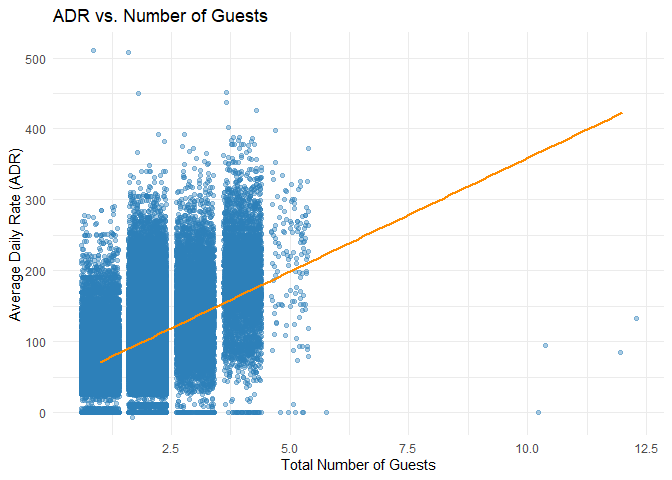
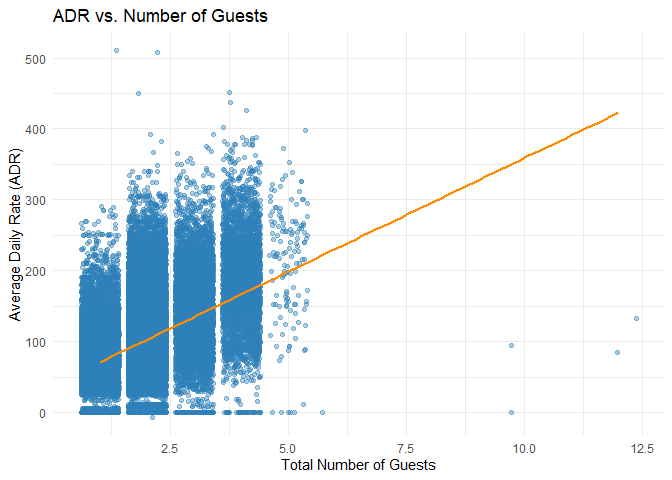
Started another question

diff --git a/README.md b/README.md
@@ -17,7 +17,7 @@ factors to improve their profit and customer satisfaction.
 - What makes guests more likely to cancel their bookings?  
 - How does the average daily rate affect bookings?  
 - How does number of guests affect hotel bookings?  
-- How does hotel type impact bookings?
+- What affects how many times bookings are changed?
 
 By investigating these questions we hope to demonstrate useful data
 about what factors affect hotel bookings.
@@ -767,3 +767,82 @@ ggplot(filtered_data, aes(x = has_agent, y = adr, fill = has_agent)) +
 ```
 
 ![](README_files/figure-gfm/unnamed-chunk-13-5.png)<!-- -->
+
+### What affects how many times bookings are changed?
+
+``` r
+data %>%
+  count(booking_changes) %>%
+  filter(n > 50) %>%  # Filter out rare counts for clarity
+  ggplot(aes(x = as.factor(booking_changes), y = n)) +
+  geom_bar(stat = "identity", fill = "#3182bd") +
+  labs(
+    title = "Distribution of Booking Changes",
+    x = "Number of Changes",
+    y = "Number of Bookings"
+  ) +
+  theme_minimal()
+```
+
+![](README_files/figure-gfm/unnamed-chunk-14-1.png)<!-- -->
+
+This chart shows the distribution of how many booking changes are made.
+As you can see, the majority of bookings don’t have any changes made to
+them, and it drops from there.
+
+This is the cancellation rate by number of bookings.
+
+``` r
+data %>%
+  group_by(booking_changes) %>%
+  summarise(
+    total = n(),
+    cancel_rate = mean(is_canceled),
+    .groups = "drop"
+  ) %>%
+  filter(total > 50) %>%
+  ggplot(aes(x = as.factor(booking_changes), y = cancel_rate)) +
+  geom_bar(stat = "identity", fill = "#de2d26") +
+  geom_text(aes(label = scales::percent(cancel_rate, accuracy = 0.1)), 
+            vjust = -0.5, size = 4) +
+  scale_y_continuous(labels = scales::percent_format()) +
+  labs(
+    title = "Cancellation Rate by Number of Booking Changes",
+    x = "Number of Changes",
+    y = "Cancellation Rate"
+  ) +
+  theme_minimal()
+```
+
+![](README_files/figure-gfm/unnamed-chunk-15-1.png)<!-- --> This shows
+cancellation rate by number of changes.
+
+This shows booking changes by hotel type.
+
+``` r
+data %>%
+  group_by(hotel, booking_changes) %>%
+  summarise(n = n(), .groups = "drop") %>%
+  group_by(hotel) %>%
+  mutate(proportion = n / sum(n)) %>%
+  filter(n > 50) %>%  # Optional: filter out rare booking change values
+  ggplot(aes(x = as.factor(booking_changes), y = proportion, fill = hotel)) +
+  geom_bar(stat = "identity", position = position_dodge(width = 0.8), width = 0.7) +
+  scale_y_continuous(labels = percent_format()) +
+  labs(
+    title = "Proportion of Booking Changes by Hotel Type",
+    x = "Number of Booking Changes",
+    y = "Proportion of Bookings",
+    fill = "Hotel Type"
+  ) +
+  theme_minimal()
+```
+
+![](README_files/figure-gfm/unnamed-chunk-16-1.png)<!-- -->
+
+As we can see the hotel type doesn’t seem to affect the number of
+booking changes very much. There is no significant data to be shown
+other than that they don’t seem to be very correlated.
+
+How does lead time correlate to booking changes? We hypothesize the
+longer lead time is the more booking changes will be made.
